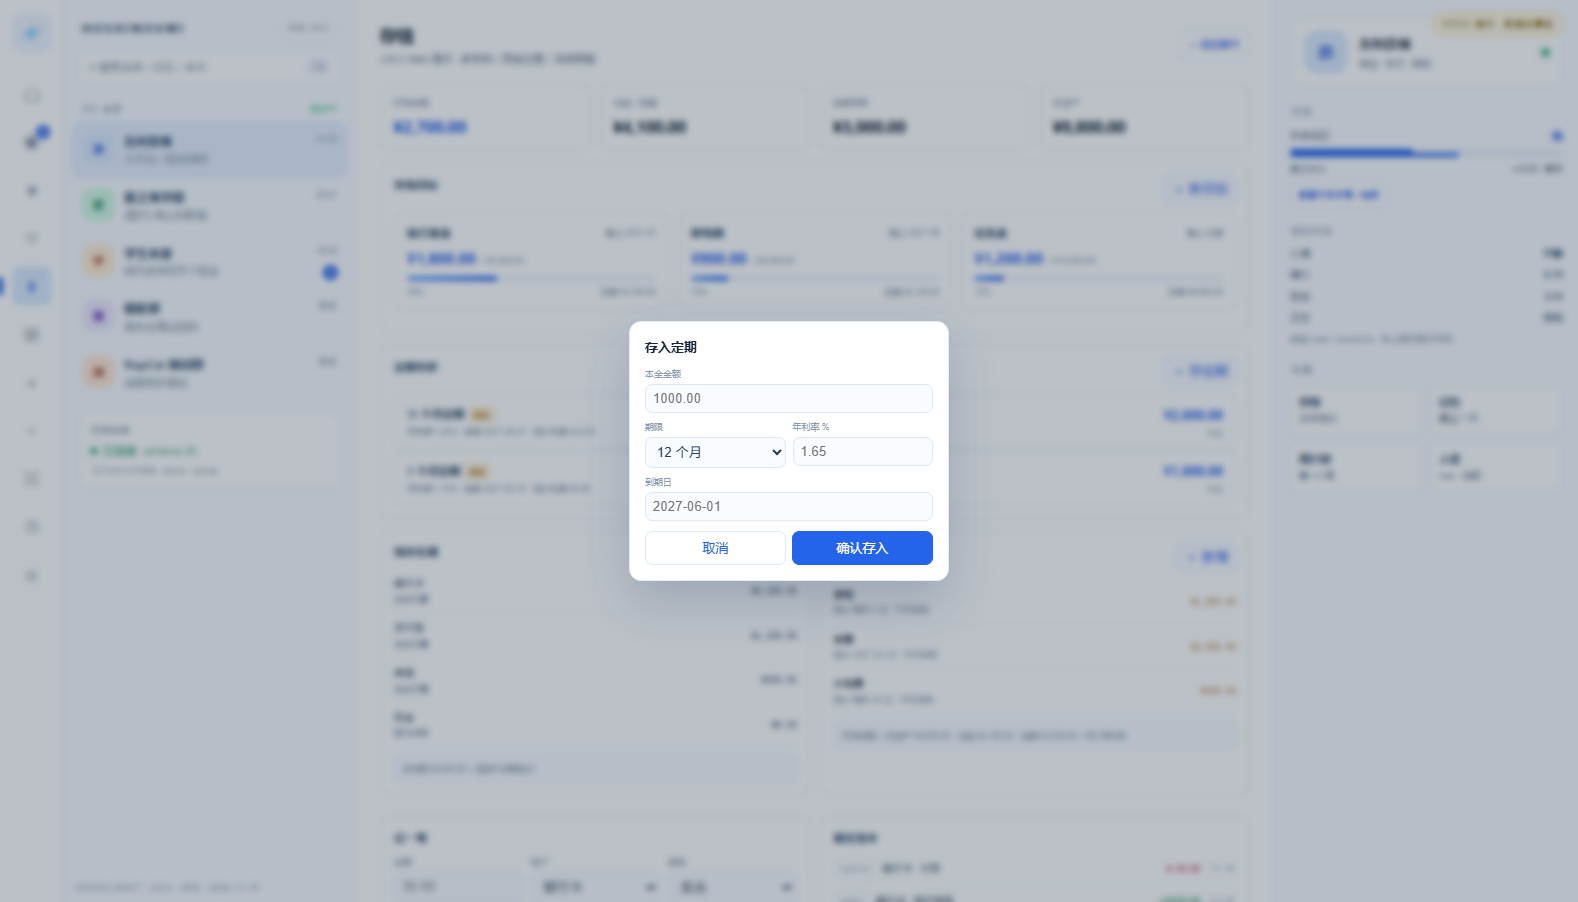
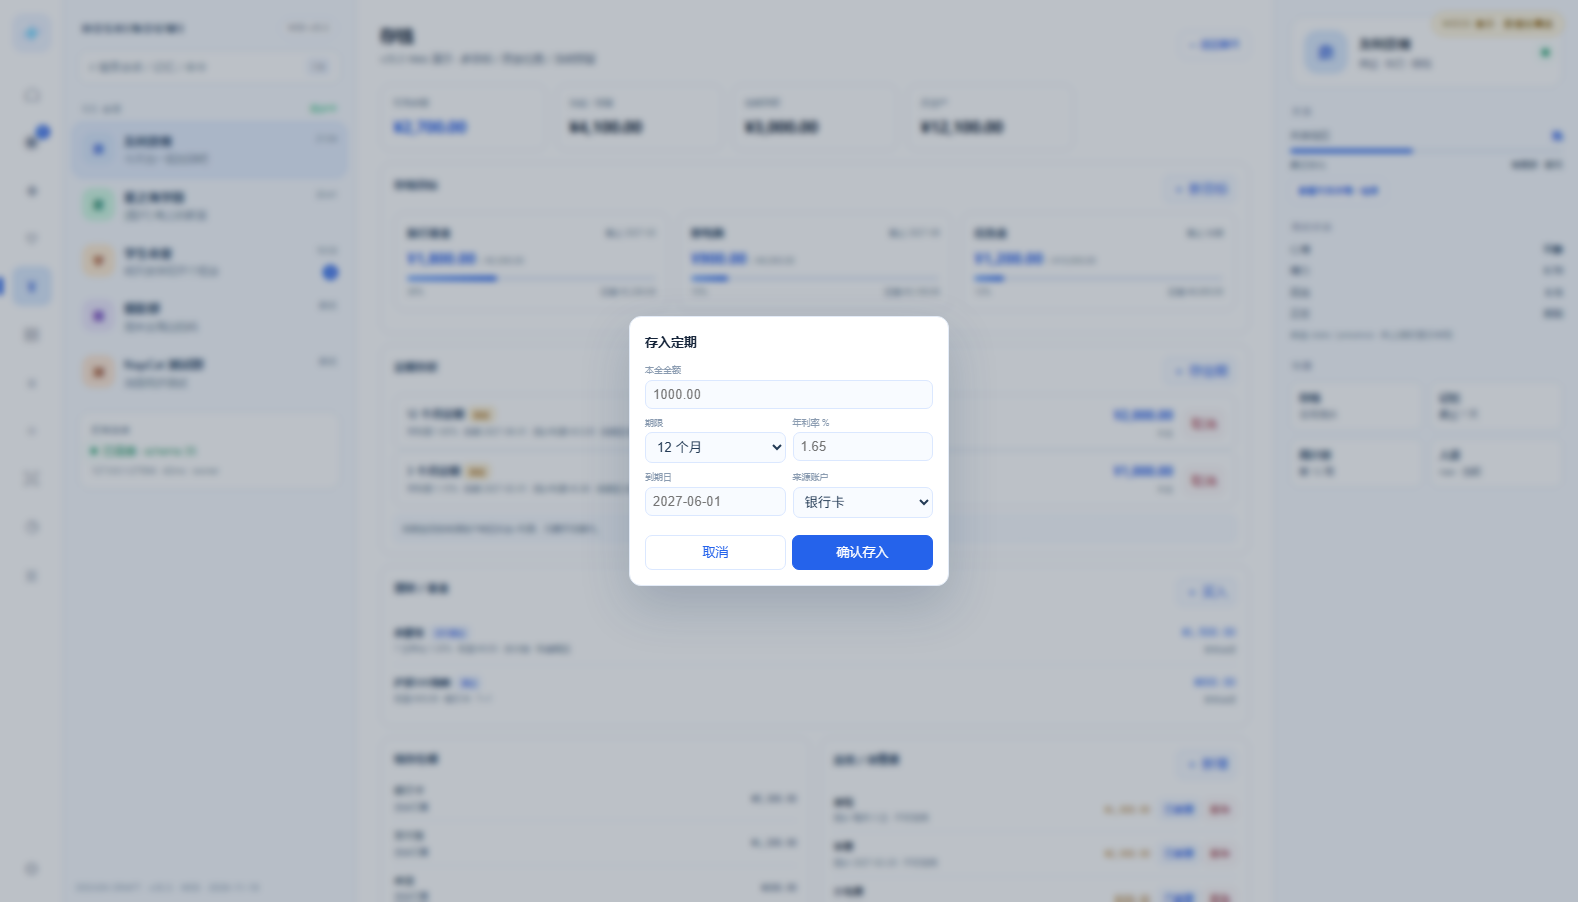
design(v35.5): 存定期支持扣款或补录

diff --git a/docs/design/v35/web/demo.js b/docs/design/v35/web/demo.js
@@ -126,7 +126,7 @@
     .home-card h3{font-size:11px;margin:0 0 3px;color:#1e3a5f}
     .home-card p{font-size:9.5px;line-height:1.5;color:#6b7c95;margin:0}
     .home-card .st{font-size:9px;color:#1f9d6b;margin-top:7px}
-    .panel-head{display:flex;align-items:center;justify-content:space-between;gap:8px;margin-bottom:9px}.panel-head h3{margin:0}.mini-add{border:1px solid #dbe8ff;background:#f8fbff;color:#2563eb;border-radius:6px;padding:3px 7px;font:9px inherit;cursor:pointer}.mini-add:hover{background:#eef4ff}.savings-modal{position:fixed;inset:0;background:rgba(15,32,55,.28);backdrop-filter:blur(3px);z-index:60;display:grid;place-items:center}.savings-modal .box{width:320px;background:#fff;border:1px solid #e3ebf7;border-radius:12px;box-shadow:0 20px 50px rgba(30,60,100,.2);padding:15px}.savings-modal h3{margin:0 0 10px;font-size:13px;color:#17263b}.savings-modal label{display:block;font-size:9px;color:#8a9bb0;margin-bottom:7px}.savings-modal input,.savings-modal select{display:block;width:100%;border:1px solid #dbe8ff;border-radius:7px;background:#f8fbff;color:#243b55;font:10.5px inherit;padding:6px 7px;margin-top:3px;outline:0}.savings-modal .row{display:grid;grid-template-columns:1fr 1fr;gap:7px}.savings-modal .acts{display:flex;gap:6px;margin-top:10px}.savings-modal .acts button{flex:1;border:1px solid #dbe8ff;border-radius:7px;background:#fff;color:#2563eb;padding:6px;font:10px inherit;cursor:pointer}.savings-modal .acts button.primary{background:#2563eb;color:#fff;border-color:#2563eb}.fixed-card{border:1px solid #e3ebf7;border-radius:10px;background:#fff;padding:10px 12px;display:flex;align-items:center;gap:12px}.fixed-card .main{flex:1}.fixed-card .name{font-size:11px;color:#1e3a5f;font-weight:600}.fixed-card .meta{font-size:8.5px;color:#8a9bb0;margin-top:3px}.fixed-card .val{text-align:right}.fixed-card .val b{font-size:13px;color:#2563eb}.fixed-card .val small{display:block;font-size:8px;color:#8a9bb0;margin-top:2px}.fund-row{display:flex;align-items:center;justify-content:space-between;border-bottom:1px solid #f1f5fb;padding:8px 0;font-size:10px}.fund-row:last-child{border-bottom:0}.fund-name{color:#1e3a5f;font-weight:600}.fund-tag{font-size:7.5px;color:#2563eb;background:#eef4ff;border:1px solid #dbe8ff;border-radius:4px;padding:1px 4px;font-weight:400;margin-left:3px}.fund-meta{font-size:8.5px;color:#8a9bb0;margin-top:2px}.fund-value{text-align:right;color:#2563eb;font-family:ui-monospace,monospace;font-size:12px}.fund-value small{display:block;color:#8a9bb0;font-size:8px;margin-top:2px}.fixed-acts{display:flex;gap:4px;margin-top:5px;justify-content:flex-end}.fixed-acts button{border:1px solid #dbe8ff;background:#f8fbff;color:#2563eb;border-radius:5px;padding:2px 5px;font:8px inherit;cursor:pointer}.fixed-acts button.cancel{border-color:#f0d7dd;color:#b23b52;background:#fff}.fixed-acts button:hover{background:#eef4ff}.fixed-lock{font-size:8px;color:#b7791f;background:#fff8e6;border:1px solid #f2d491;border-radius:4px;padding:1px 4px;margin-left:4px}.savings-goals{display:grid;grid-template-columns:repeat(3,1fr);gap:9px;margin-bottom:10px}.goal-card{border:1px solid #e3ebf7;border-radius:11px;background:#fff;padding:11px 12px}.goal-top{display:flex;align-items:center;justify-content:space-between;gap:6px}.goal-top b{font-size:11px;color:#1e3a5f}.goal-top span{font-size:8.5px;color:#8a9bb0}.goal-amt{font-size:15px;font-weight:700;color:#2563eb;margin:6px 0 2px}.goal-amt small{font-size:9px;color:#8a9bb0;font-weight:400}.gbar{height:5px;border-radius:5px;background:#e8effa;overflow:hidden;margin:6px 0 4px}.gbar i{display:block;height:100%;border-radius:5px;background:linear-gradient(90deg,#6ea4ff,#2563eb)}.goal-foot{display:flex;justify-content:space-between;font-size:8.5px;color:#8a9bb0}.savings-two{display:grid;grid-template-columns:1fr 1fr;gap:9px;margin-bottom:10px}.money-row{display:flex;align-items:center;justify-content:space-between;border-bottom:1px solid #f1f5fb;padding:7px 0;font-size:10px;color:#405872}.money-row:last-child{border-bottom:0}.money-row .where{color:#8a9bb0;font-size:8.5px;margin-top:1px}.money-row .amt{font-family:ui-monospace,monospace;color:#1e3a5f}.frozen-row{display:flex;align-items:center;justify-content:space-between;border-bottom:1px solid #f1f5fb;padding:7px 0;font-size:10px}.frozen-row:last-child{border-bottom:0}.frozen-row .why{color:#8a9bb0;font-size:8.5px;margin-top:1px}.frozen-row .amt{color:#b7791f;font-family:ui-monospace,monospace}.frozen-right{display:flex;align-items:center;gap:8px}.frozen-acts{display:flex;gap:4px}.frozen-acts button{border:1px solid #dbe8ff;background:#f8fbff;color:#2563eb;border-radius:5px;padding:2px 5px;font:8.5px inherit;cursor:pointer}.frozen-acts button.del{border-color:#f0d7dd;color:#b23b52;background:#fff}.frozen-acts button:hover{background:#eef4ff}.frozen-tip{font-size:8.5px;color:#8a9bb0;background:#f8fbff;border:1px dashed #dbe8ff;border-radius:6px;padding:6px 7px;margin-top:8px;line-height:1.6}.stat-amber .v{color:#b7791f}.savings-grid{display:grid;grid-template-columns:repeat(5,1fr);gap:9px;margin-bottom:11px}
+    .panel-head{display:flex;align-items:center;justify-content:space-between;gap:8px;margin-bottom:9px}.panel-head h3{margin:0}.mini-add{border:1px solid #dbe8ff;background:#f8fbff;color:#2563eb;border-radius:6px;padding:3px 7px;font:9px inherit;cursor:pointer}.mini-add:hover{background:#eef4ff}.savings-modal{position:fixed;inset:0;background:rgba(15,32,55,.28);backdrop-filter:blur(3px);z-index:60;display:grid;place-items:center}.savings-modal .box{width:320px;background:#fff;border:1px solid #e3ebf7;border-radius:12px;box-shadow:0 20px 50px rgba(30,60,100,.2);padding:15px}.savings-modal h3{margin:0 0 10px;font-size:13px;color:#17263b}.savings-modal label{display:block;font-size:9px;color:#8a9bb0;margin-bottom:7px}.savings-modal input,.savings-modal select{display:block;width:100%;border:1px solid #dbe8ff;border-radius:7px;background:#f8fbff;color:#243b55;font:10.5px inherit;padding:6px 7px;margin-top:3px;outline:0}.savings-modal .check{display:flex;align-items:center;gap:6px;font-size:9px;color:#6b7c95}.savings-modal .check input{width:auto;margin:0;display:inline}.savings-modal .row{display:grid;grid-template-columns:1fr 1fr;gap:7px}.savings-modal .acts{display:flex;gap:6px;margin-top:10px}.savings-modal .acts button{flex:1;border:1px solid #dbe8ff;border-radius:7px;background:#fff;color:#2563eb;padding:6px;font:10px inherit;cursor:pointer}.savings-modal .acts button.primary{background:#2563eb;color:#fff;border-color:#2563eb}.fixed-card{border:1px solid #e3ebf7;border-radius:10px;background:#fff;padding:10px 12px;display:flex;align-items:center;gap:12px}.fixed-card .main{flex:1}.fixed-card .name{font-size:11px;color:#1e3a5f;font-weight:600}.fixed-card .meta{font-size:8.5px;color:#8a9bb0;margin-top:3px}.fixed-card .val{text-align:right}.fixed-card .val b{font-size:13px;color:#2563eb}.fixed-card .val small{display:block;font-size:8px;color:#8a9bb0;margin-top:2px}.fund-row{display:flex;align-items:center;justify-content:space-between;border-bottom:1px solid #f1f5fb;padding:8px 0;font-size:10px}.fund-row:last-child{border-bottom:0}.fund-name{color:#1e3a5f;font-weight:600}.fund-tag{font-size:7.5px;color:#2563eb;background:#eef4ff;border:1px solid #dbe8ff;border-radius:4px;padding:1px 4px;font-weight:400;margin-left:3px}.fund-meta{font-size:8.5px;color:#8a9bb0;margin-top:2px}.fund-value{text-align:right;color:#2563eb;font-family:ui-monospace,monospace;font-size:12px}.fund-value small{display:block;color:#8a9bb0;font-size:8px;margin-top:2px}.fixed-acts{display:flex;gap:4px;margin-top:5px;justify-content:flex-end}.fixed-acts button{border:1px solid #dbe8ff;background:#f8fbff;color:#2563eb;border-radius:5px;padding:2px 5px;font:8px inherit;cursor:pointer}.fixed-acts button.cancel{border-color:#f0d7dd;color:#b23b52;background:#fff}.fixed-acts button:hover{background:#eef4ff}.fixed-lock{font-size:8px;color:#b7791f;background:#fff8e6;border:1px solid #f2d491;border-radius:4px;padding:1px 4px;margin-left:4px}.savings-goals{display:grid;grid-template-columns:repeat(3,1fr);gap:9px;margin-bottom:10px}.goal-card{border:1px solid #e3ebf7;border-radius:11px;background:#fff;padding:11px 12px}.goal-top{display:flex;align-items:center;justify-content:space-between;gap:6px}.goal-top b{font-size:11px;color:#1e3a5f}.goal-top span{font-size:8.5px;color:#8a9bb0}.goal-amt{font-size:15px;font-weight:700;color:#2563eb;margin:6px 0 2px}.goal-amt small{font-size:9px;color:#8a9bb0;font-weight:400}.gbar{height:5px;border-radius:5px;background:#e8effa;overflow:hidden;margin:6px 0 4px}.gbar i{display:block;height:100%;border-radius:5px;background:linear-gradient(90deg,#6ea4ff,#2563eb)}.goal-foot{display:flex;justify-content:space-between;font-size:8.5px;color:#8a9bb0}.savings-two{display:grid;grid-template-columns:1fr 1fr;gap:9px;margin-bottom:10px}.money-row{display:flex;align-items:center;justify-content:space-between;border-bottom:1px solid #f1f5fb;padding:7px 0;font-size:10px;color:#405872}.money-row:last-child{border-bottom:0}.money-row .where{color:#8a9bb0;font-size:8.5px;margin-top:1px}.money-row .amt{font-family:ui-monospace,monospace;color:#1e3a5f}.frozen-row{display:flex;align-items:center;justify-content:space-between;border-bottom:1px solid #f1f5fb;padding:7px 0;font-size:10px}.frozen-row:last-child{border-bottom:0}.frozen-row .why{color:#8a9bb0;font-size:8.5px;margin-top:1px}.frozen-row .amt{color:#b7791f;font-family:ui-monospace,monospace}.frozen-right{display:flex;align-items:center;gap:8px}.frozen-acts{display:flex;gap:4px}.frozen-acts button{border:1px solid #dbe8ff;background:#f8fbff;color:#2563eb;border-radius:5px;padding:2px 5px;font:8.5px inherit;cursor:pointer}.frozen-acts button.del{border-color:#f0d7dd;color:#b23b52;background:#fff}.frozen-acts button:hover{background:#eef4ff}.frozen-tip{font-size:8.5px;color:#8a9bb0;background:#f8fbff;border:1px dashed #dbe8ff;border-radius:6px;padding:6px 7px;margin-top:8px;line-height:1.6}.stat-amber .v{color:#b7791f}.savings-grid{display:grid;grid-template-columns:repeat(5,1fr);gap:9px;margin-bottom:11px}
     .savings-stat{border:1px solid #e3ebf7;border-radius:11px;background:#fff;padding:11px 12px}
     .savings-stat .k{font-size:9px;color:#8a9bb0;margin-bottom:3px}.savings-stat .v{font-size:17px;font-weight:700;color:#17263b;letter-spacing:-.03em}
     .savings-stat .v.blue{color:#2563eb}
@@ -795,8 +795,8 @@
           { name: '沪深300指数', type: '基金', value: 800, rate: 0, profit: 50, account: '银行卡', redeem: 'T+1' }
         ],
         fixed: [
-          { name: '12 个月定期', amount: 2000, rate: 1.65, months: 12, due: '2027-06-01', account: '银行卡' },
-          { name: '3 个月定期', amount: 1000, rate: 1.15, months: 3, due: '2027-02-01', account: '支付宝' }
+          { name: '12 个月定期', amount: 2000, rate: 1.65, months: 12, due: '2027-06-01', account: '银行卡', deducted: false },
+          { name: '3 个月定期', amount: 1000, rate: 1.15, months: 3, due: '2027-02-01', account: '支付宝', deducted: false }
         ],
         frozen: [
           { name: '房租', amount: 1800, due: '每月 5 日' },
@@ -831,7 +831,7 @@
         const assetTotal = total + fixedTotal + fundTotal;
         const available = assetTotal - frozen - fixedTotal - fundTotal;
         const fundCards = (S.funds || []).map(f => '<div class="fund-row"><div><div class="fund-name">' + esc(f.name) + ' <span class="fund-tag">' + esc(f.type) + '</span></div><div class="fund-meta">' + (f.rate ? '7 日年化 ' + Number(f.rate).toFixed(2) + '% · ' : '') + '收益 ' + money(f.profit) + ' · ' + esc(f.account) + ' · ' + esc(f.redeem) + '</div></div><div class="fund-value">' + money(f.value) + '<small>持有金额</small></div></div>').join('');
-        const fixedCards = (S.fixed || []).map((f, i) => '<div class="fixed-card"><div class="main"><div class="name">' + esc(f.name) + '<span class="fixed-lock">锁定</span></div><div class="meta">年利率 ' + Number(f.rate).toFixed(2) + '% · 到期 ' + esc(f.due) + ' · 预计利息 ' + money(f.amount * f.rate / 100 * ((f.months || 12) / 12)) + ' · 到期回 ' + esc(f.account || '银行卡') + '</div></div><div class="val"><b>' + money(f.amount) + '</b><small>本金</small></div><div class="fixed-acts"><button class="cancel" data-cancel="' + i + '">取消</button></div></div>').join('');
+        const fixedCards = (S.fixed || []).map((f, i) => '<div class="fixed-card"><div class="main"><div class="name">' + esc(f.name) + '<span class="fixed-lock">锁定</span></div><div class="meta">年利率 ' + Number(f.rate).toFixed(2) + '% · 到期 ' + esc(f.due) + ' · 预计利息 ' + money(f.amount * f.rate / 100 * ((f.months || 12) / 12)) + ' · 到期回 ' + esc(f.account || '银行卡') + (f.deducted === false ? ' · 补录' : '') + '</div></div><div class="val"><b>' + money(f.amount) + '</b><small>本金</small></div><div class="fixed-acts"><button class="cancel" data-cancel="' + i + '">取消</button></div></div>').join('');
         const goalCards = (S.goals || []).map(g => {
           const pct = g.target ? Math.min(100, Math.round(g.saved / g.target * 100)) : 0;
           return '<div class="goal-card"><div class="goal-top"><b>' + esc(g.name) + '</b><span>截止 ' + esc(g.due) + '</span></div><div class="goal-amt">' + money(g.saved) + ' <small>/ ' + money(g.target) + '</small></div><div class="gbar"><i style="width:' + pct + '%"></i></div><div class="goal-foot"><span>' + pct + '%</span><span>还差 ' + money(Math.max(0, g.target - g.saved)) + '</span></div></div>';
@@ -890,9 +890,15 @@
             const months = Number(box.querySelector('#fxMonths').value);
             const due = box.querySelector('#fxDue').value.trim();
             const account = box.querySelector('#fxAccount').value;
+            const existing = box.querySelector('#fxExisting').checked;
             if (!amount || amount <= 0) { box.querySelector('#fxAmount').focus(); return; }
+            if (!existing) {
+              const acc = S.accounts.find(a => a[0] === account);
+              if (!acc || Number(acc[1] || 0) < amount) { box.querySelector('#fxAmount').focus(); toast('来源账户余额不足'); return; }
+              acc[1] = Number(acc[1] || 0) - amount;
+            }
             if (!rate || rate <= 0) { box.querySelector('#fxRate').focus(); return; }
-            S.fixed.push({ name: months + ' 个月定期', amount, rate, months, due: due || '待定', account });
+            S.fixed.push({ name: months + ' 个月定期', amount, rate, months, due: due || '待定', account, deducted: !existing });
             close(); renderSavings(); toast('已存入定期（MOCK）');
           };
         }

diff --git a/docs/versions/v35.md b/docs/versions/v35.md
@@ -442,7 +442,7 @@ API 先行：
 | v35.9.1.9 | 冻结预留 / 缴费计划 API | 冻结可管理 |
 | v35.9.1.10 | 存钱页：目标 / 账户 / 冻结 / 可用 | 页面可用 |
 | v35.9.1.11 | 缴费提醒 / 解冻 / 目标分配 | 到期可处理 |
-| v35.9.1.12 | 定期存款 API（本金/利率/期限/到期/利息/来源账户） | 定期可查 |
+| v35.9.1.12 | 定期存款 API（本金/利率/期限/到期/利息/来源账户/扣款标记） | 定期可查 |
 | v35.9.1.13 | 存钱页定期存款卡片 / 到期提醒 | 页面可用 |
 | v35.9.1.14 | 余额宝 / 基金持仓 API（买入/赎回/净值/收益） | 理财可查 |
 | v35.9.1.15 | 存钱页理财 / 基金买入赎回 | 页面可用 |
